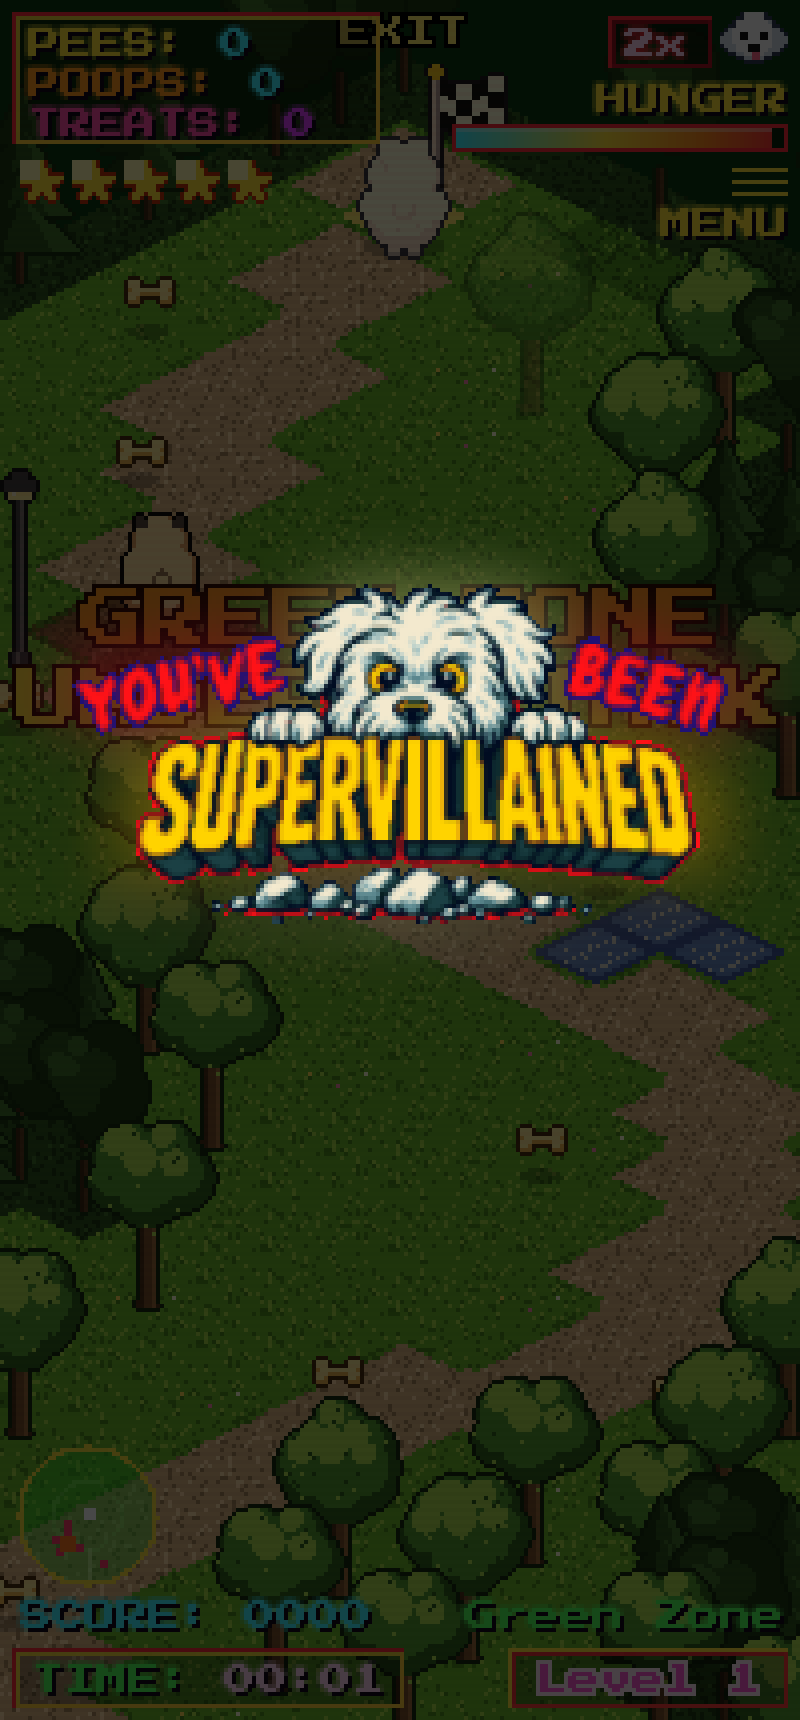
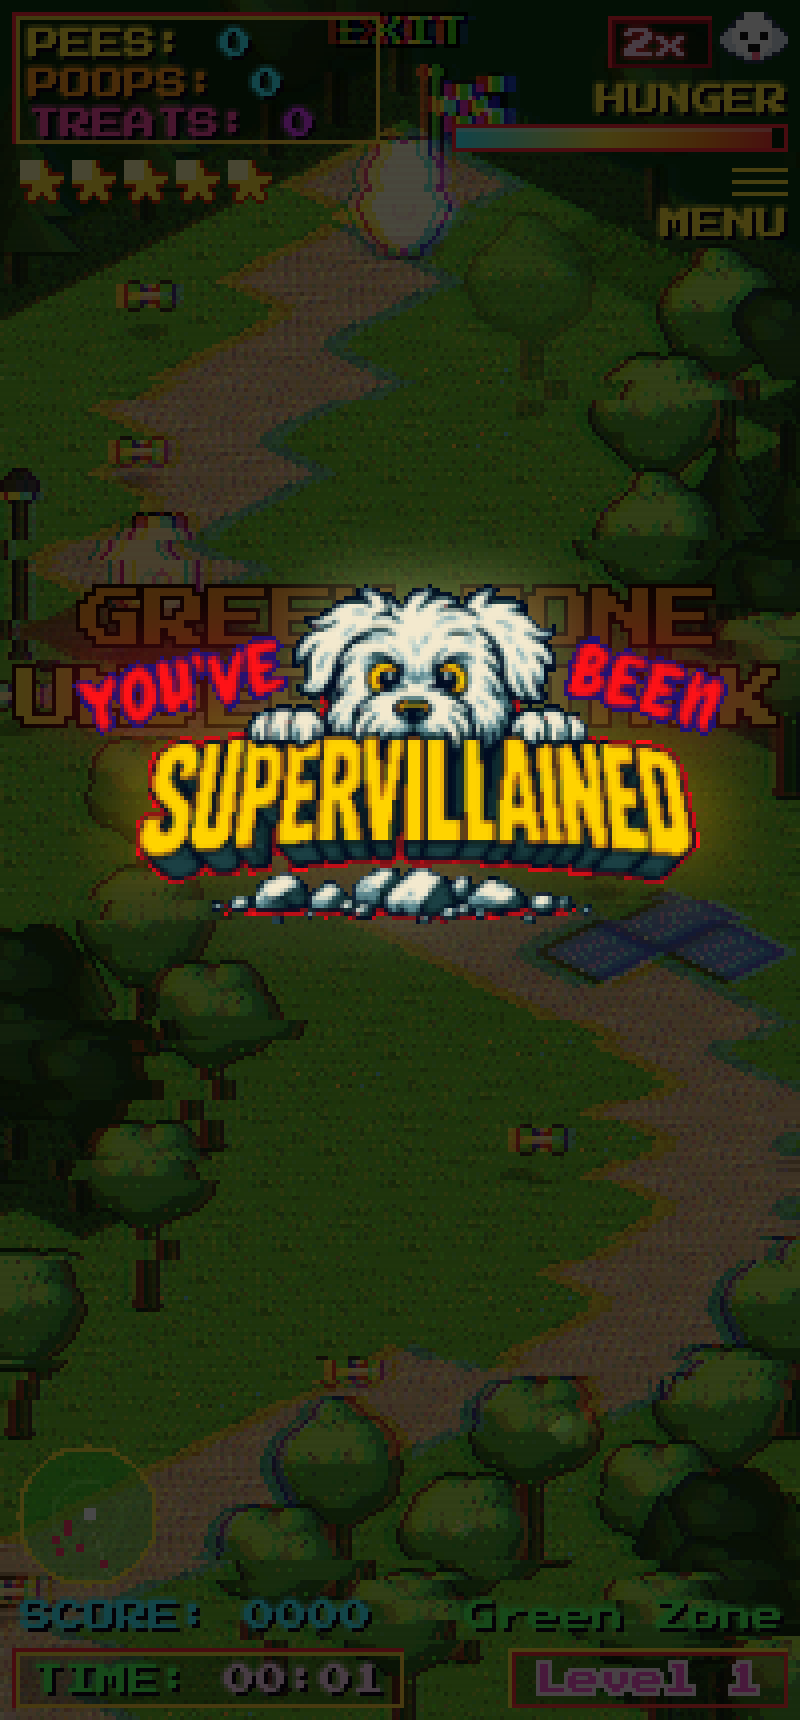
Title page: animated Zampano portrait (GIF), green SUPERVOID EDITIONS
The portrait over the buttons is now Zampano-Samemala-2.gif (from main),
animated: its 44 frames are decoded with WebCodecs' ImageDecoder
(Chromium, Android WebView; no new dependency), cropped to the dog,
scaled to the title's width with crisp edges, packed into one texture
and played with the GIF's own delays. The first frame shows at once
while the rest decode, and alone where ImageDecoder is missing. The
previous still portrait is kept as the old art (OPTIONS > ART: OLD).
SUPERVOID EDITIONS is green.

Claude-Session: https://claude.ai/code/session_01M83brc3uYNtkMe9oqkk4LQ

diff --git a/src/ui/titleAnim.ts b/src/ui/titleAnim.ts
@@ -1,0 +1,179 @@
+import { Rectangle, Texture } from 'pixi.js';
+import gifUrl from '../../assets/starting-page-images/Zampano-Samemala-2.gif?url';
+
+/**
+ * The title page's animated portrait of Zampanò (assets/starting-page-images/
+ * Zampano-Samemala-2.gif, 44 frames). The GIF is large (1024 x 1536 per frame); its frames are
+ * decoded by the browser (WebCodecs `ImageDecoder`, in Chromium and the Android WebView), cropped
+ * to the dog (the union of every frame's opaque area), scaled down to the size the title needs
+ * on this screen and packed into one texture. Until it is ready (a second or two on a slow
+ * phone) and where `ImageDecoder` is missing (Safari, a page served over plain http on the LAN)
+ * the title shows the GIF's first frame (`titleStill`).
+ */
+export interface TitleAnim {
+  frames: Texture[];
+  /** Seconds each frame stays. */
+  durations: number[];
+  /** Total loop length, seconds. */
+  length: number;
+}
+
+export const TITLE_GIF_URL: string = gifUrl;
+
+/** The bits of WebCodecs' ImageDecoder used here (not in every TypeScript DOM library). */
+interface DecodedFrame {
+  image: CanvasImageSource & { displayWidth: number; displayHeight: number; duration: number | null; close(): void };
+}
+interface ImageDecoderLike {
+  readonly completed: Promise<void>;
+  readonly tracks: { readonly ready: Promise<void>; readonly selectedTrack: { frameCount: number } | null };
+  decode(options: { frameIndex: number }): Promise<DecodedFrame>;
+  close(): void;
+}
+type ImageDecoderCtor = new (init: { data: ArrayBuffer; type: string }) => ImageDecoderLike;
+
+/** Frames are first reduced to this width (by halving: smooth and sharp), cropped from there. */
+const WORK_WIDTH = 256;
+/** Alpha at or above this becomes opaque, below it transparent (crisp edges, like the pixel art). */
+const ALPHA_CUT = 110;
+
+const cache = new Map<string, Promise<TitleAnim | null>>();
+
+function cached(key: string, make: () => Promise<TitleAnim | null>): Promise<TitleAnim | null> {
+  let p = cache.get(key);
+  if (!p) {
+    p = make().catch((err) => {
+      console.warn('[title anim]', err);
+      return null;
+    });
+    cache.set(key, p);
+  }
+  return p;
+}
+
+/** The animation with frames `width` logical px wide (cached per width). */
+export function titleAnimation(width: number): Promise<TitleAnim | null> {
+  return cached(`anim@${width}`, async () => {
+    const got = await decodedFrames();
+    return got ? pack(got.work, got.durations, width) : null;
+  });
+}
+
+/**
+ * The GIF's first frame alone, cropped and scaled the same way: quick to make, shown while the
+ * animation decodes (and for good where ImageDecoder is missing).
+ */
+export function titleStill(width: number): Promise<TitleAnim | null> {
+  return cached(`still@${width}`, async () => {
+    const img = new Image();
+    img.src = gifUrl;
+    await img.decode();
+    return pack([reduce(img, img.naturalWidth, img.naturalHeight)], [1], width);
+  });
+}
+
+function canvas(w: number, h: number): HTMLCanvasElement {
+  const c = document.createElement('canvas');
+  c.width = Math.max(1, Math.round(w));
+  c.height = Math.max(1, Math.round(h));
+  return c;
+}
+
+function smooth(c: HTMLCanvasElement): CanvasRenderingContext2D {
+  const g = c.getContext('2d', { willReadFrequently: true })!;
+  g.imageSmoothingEnabled = true;
+  g.imageSmoothingQuality = 'high';
+  return g;
+}
+
+/** A frame reduced to WORK_WIDTH by halving (smooth and sharp). */
+function reduce(src0: CanvasImageSource, w: number, h: number): HTMLCanvasElement {
+  let src = src0;
+  let sw = w;
+  let sh = h;
+  while (sw / 2 >= WORK_WIDTH) {
+    const c = canvas(sw / 2, sh / 2);
+    smooth(c).drawImage(src, 0, 0, c.width, c.height);
+    [src, sw, sh] = [c, c.width, c.height];
+  }
+  const c = canvas(WORK_WIDTH, (sh * WORK_WIDTH) / sw);
+  smooth(c).drawImage(src, 0, 0, c.width, c.height);
+  return c;
+}
+
+/** Every frame, reduced (null where ImageDecoder is missing). */
+async function decodedFrames(): Promise<{ work: HTMLCanvasElement[]; durations: number[] } | null> {
+  const Decoder = (globalThis as { ImageDecoder?: ImageDecoderCtor }).ImageDecoder;
+  if (!Decoder) return null;
+  const data = await (await fetch(gifUrl)).arrayBuffer();
+  const decoder = new Decoder({ data, type: 'image/gif' });
+  try {
+    // The track list first (selectedTrack is null until then), then the whole file.
+    await decoder.tracks.ready;
+    await decoder.completed;
+    const count = decoder.tracks.selectedTrack?.frameCount ?? 0;
+    const work: HTMLCanvasElement[] = [];
+    const durations: number[] = [];
+    for (let i = 0; i < count; i++) {
+      const { image } = await decoder.decode({ frameIndex: i });
+      durations.push(Math.max(0.02, (image.duration ?? 100_000) / 1e6));
+      work.push(reduce(image, image.displayWidth, image.displayHeight));
+      image.close();
+    }
+    return count ? { work, durations } : null;
+  } finally {
+    decoder.close();
+  }
+}
+
+/** Crops the reduced frames to the dog, scales them to `width` and packs them in one texture. */
+function pack(work: HTMLCanvasElement[], durations: number[], width: number): TitleAnim | null {
+  // The union of every frame's opaque area: the crop.
+  let x0 = Infinity;
+  let y0 = Infinity;
+  let x1 = -1;
+  let y1 = -1;
+  for (const c of work) {
+    const a = smooth(c).getImageData(0, 0, c.width, c.height).data;
+    for (let y = 0; y < c.height; y++) {
+      for (let x = 0; x < c.width; x++) {
+        if (a[(y * c.width + x) * 4 + 3]! < ALPHA_CUT) continue;
+        if (x < x0) x0 = x;
+        if (x > x1) x1 = x;
+        if (y < y0) y0 = y;
+        if (y > y1) y1 = y;
+      }
+    }
+  }
+  if (x1 < 0) return null;
+
+  // Crop to the dog, scale to `width`, pack the frames into one atlas.
+  const count = work.length;
+  const cw = x1 - x0 + 1;
+  const ch = y1 - y0 + 1;
+  const fw = width;
+  const fh = Math.max(1, Math.round((ch * width) / cw));
+  const cols = Math.max(1, Math.min(count, Math.floor(2048 / (fw + 1))));
+  const rows = Math.ceil(count / cols);
+  const atlas = canvas(cols * (fw + 1), rows * (fh + 1));
+  const g = smooth(atlas);
+  work.forEach((c, i) => g.drawImage(c, x0, y0, cw, ch, (i % cols) * (fw + 1), Math.floor(i / cols) * (fh + 1), fw, fh));
+  const img = g.getImageData(0, 0, atlas.width, atlas.height);
+  for (let k = 3; k < img.data.length; k += 4) img.data[k] = img.data[k]! >= ALPHA_CUT ? 255 : 0;
+  g.putImageData(img, 0, 0);
+  const base = Texture.from(atlas);
+  const frames = work.map(
+    (_, i) => new Texture({ source: base.source, frame: new Rectangle((i % cols) * (fw + 1), Math.floor(i / cols) * (fh + 1), fw, fh) }),
+  );
+  return { frames, durations, length: durations.reduce((s, d) => s + d, 0) };
+}
+
+/** The frame showing `t` seconds into the loop. */
+export function frameAt(anim: TitleAnim, t: number): Texture {
+  let r = anim.length > 0 ? t % anim.length : 0;
+  for (let i = 0; i < anim.frames.length; i++) {
+    r -= anim.durations[i]!;
+    if (r < 0) return anim.frames[i]!;
+  }
+  return anim.frames[anim.frames.length - 1]!;
+}

diff --git a/src/scenes/overlays.ts b/src/scenes/overlays.ts
@@ -1,7 +1,10 @@
-import { Container, Graphics, Sprite } from 'pixi.js';
+import { Container, Graphics, Sprite, Texture } from 'pixi.js';
 import { TITLE } from '../config';
 import type { TitleGlitchFilter } from '../fx/titleGlitchFilter';
 import { loadTitleArt, titleTexture, type TitleArt } from '../ui/titleArt';
+import { frameAt, titleAnimation, titleStill, type TitleAnim } from '../ui/titleAnim';
+import { artVersion } from '../assets/build';
+import type { ArtVersion } from '../assets/manifest';
 import { textures } from '../core/assets';
 import type { Game } from '../core/game';
 import type { Scene } from '../core/scene';
@@ -66,8 +69,14 @@ export interface TitleActions {
  * (The "You've been supervillained" logo is kept for the end of each level: SupervillainedScene.)
  */
 export class TitleScene extends Overlay {
-  /** Zampanò's portrait (title art) over the buttons. */
+  /** Zampanò's portrait over the buttons: the animated GIF (new art) or the old still. */
   private readonly dog = new Sprite();
+  private anim: TitleAnim | null = null;
+  /** Width the animation was asked for (frames are made for one width). */
+  private animWidth = 0;
+  private animTime = 0;
+  /** The art version the portrait shows (OPTIONS > ART can change it under the title). */
+  private artShown: ArtVersion | null = null;
   private art: TitleArt | null = null;
   private burstLeft = 0;
   private nextBurst = 1;
@@ -80,7 +89,7 @@ export class TitleScene extends Overlay {
   private readonly best: PixelText;
   private readonly menu: Menu;
   /** Publisher line: the smallest crisp size of the pixel font (scale 1), dimmed. */
-  private readonly footer = new PixelText('SUPERVOID EDITIONS', { color: '#8ad4ff', letterSpacing: 1 }).setOrigin(0.5, 1);
+  private readonly footer = new PixelText('SUPERVOID EDITIONS', { color: C.green, shadow: '#000000', letterSpacing: 1 }).setOrigin(0.5, 1);
 
   constructor(
     game: Game,
@@ -112,7 +121,7 @@ export class TitleScene extends Overlay {
     this.root.addChild(this.title, this.edition, this.dog, this.best, this.menu.root, this.footer);
     void loadTitleArt().then((art) => {
       this.art = art;
-      this.layout();
+      if (!this.root.destroyed) this.layout();
     });
   }
 
@@ -132,12 +141,8 @@ export class TitleScene extends Overlay {
     let y = halfTitle + Math.round(this.title.height / 2) + 10;
     const editionY = y;
     y += 12;
-    let dogY = y;
-    if (this.art) {
-      this.dog.texture = titleTexture(this.art.dog, Math.round(w * TITLE.DOG_WIDTH));
-      dogY = y;
-      y += this.dog.height + 6;
-    }
+    const dogY = y;
+    y += this.layoutDog(Math.round(w * TITLE.DOG_WIDTH)) + 6;
     const menuY = y;
     y += this.menu.height + 5;
     const bestY = y;
@@ -154,8 +159,43 @@ export class TitleScene extends Overlay {
     this.footer.position.set(cx, h - 6);
   }
 
+  /** Sets the portrait for this width; returns the height it takes. */
+  private layoutDog(width: number): number {
+    this.artShown = artVersion();
+    if (this.artShown === 'old') {
+      // The old art: the still portrait.
+      if (!this.art) return 0;
+      this.dog.texture = titleTexture(this.art.dog, width);
+      return this.dog.height;
+    }
+    if (this.animWidth !== width) {
+      this.animWidth = width;
+      this.anim = null;
+      // The first frame at once, the animation when it has decoded.
+      const show = (a: TitleAnim | null, still: boolean) => {
+        // The title may be gone by now (NEW GAME tapped while it decoded).
+        if (!a || this.animWidth !== width || this.root.destroyed) return;
+        if (still && this.anim) return;
+        this.anim = a;
+        this.layout();
+      };
+      void titleStill(width).then((a) => show(a, true));
+      void titleAnimation(width).then((a) => show(a, false));
+    }
+    if (!this.anim) {
+      // Not ready yet: keep its place.
+      this.dog.texture = Texture.EMPTY;
+      return Math.round(width * TITLE.DOG_ASPECT);
+    }
+    this.dog.texture = frameAt(this.anim, this.animTime);
+    return this.anim.frames[0]!.height;
+  }
+
   override update(dt: number): void {
     super.update(dt);
+    if (artVersion() !== this.artShown) this.layout();
+    this.animTime += dt;
+    if (this.anim && this.artShown === 'new') this.dog.texture = frameAt(this.anim, this.animTime);
     // Glitchy entrance: jitter for the first moments.
     const jitter = this.time < 0.9 ? Math.round((Math.random() * 2 - 1) * 4 * (1 - this.time / 0.9)) : 0;
     this.title.x = Math.round(this.w / 2) + jitter;

diff --git a/src/main.ts b/src/main.ts
@@ -8,6 +8,8 @@ import { SpriteViewerScene } from './scenes/spriteViewerScene';
 import type { CharacterKey } from './assets/manifest';
 import { loadPixelFont } from './ui/pixelFont';
 import { loadTitleArt } from './ui/titleArt';
+import { titleAnimation, titleStill } from './ui/titleAnim';
+import { TITLE } from './config';
 import { dirFromGridVector } from './iso/projection';
 import { CHAPTERS } from './campaign/chapters';
 import { DEFAULT_POLICY } from './story/autopilot';
@@ -40,6 +42,9 @@ async function boot(): Promise<void> {
   await buildGlobalTextures();
   await loadTitleArt();
   const game = new Game(app, canvas);
+  // Start decoding the title's animated portrait now (it plays as soon as it is ready).
+  void titleStill(Math.round(game.width * TITLE.DOG_WIDTH));
+  void titleAnimation(Math.round(game.width * TITLE.DOG_WIDTH));
   document.getElementById('boot')?.remove();
 
   const params = new URLSearchParams(location.search);

diff --git a/tests/titleAnim.test.ts b/tests/titleAnim.test.ts
@@ -1,0 +1,22 @@
+import { Texture } from 'pixi.js';
+import { describe, expect, it, vi } from 'vitest';
+
+vi.mock('../assets/starting-page-images/Zampano-Samemala-2.gif?url', () => ({ default: 'zampano.gif' }));
+const { frameAt } = await import('../src/ui/titleAnim');
+
+describe('title animation timing', () => {
+  const frames = [new Texture(), new Texture(), new Texture()];
+  const anim = { frames, durations: [0.08, 0.04, 0.05], length: 0.17 };
+
+  it('shows each frame for its own duration (GIF delays)', () => {
+    expect(frameAt(anim, 0)).toBe(frames[0]);
+    expect(frameAt(anim, 0.079)).toBe(frames[0]);
+    expect(frameAt(anim, 0.081)).toBe(frames[1]);
+    expect(frameAt(anim, 0.13)).toBe(frames[2]);
+  });
+
+  it('loops', () => {
+    expect(frameAt(anim, 0.17 + 0.01)).toBe(frames[0]);
+    expect(frameAt(anim, 0.17 * 10 + 0.1)).toBe(frames[1]);
+  });
+});

diff --git a/src/config.ts b/src/config.ts
@@ -82,6 +82,8 @@ export const ENERGY = {
 export const TITLE = {
   /** Zampanò's portrait over the buttons, as a fraction of the screen width. */
   DOG_WIDTH: 0.46,
+  /** The animated portrait's height / width (space kept for it while the GIF decodes). */
+  DOG_ASPECT: 1.4,
   /** Share of the free space below the stack moved above it (lowers everything toward the footer). */
   LOWER: 0.75,
   /** Background glitch (mostly vertical): flickering burst strength [min, max], faint level in between. */

diff --git a/ASSETS.md b/ASSETS.md
@@ -186,12 +186,22 @@ transitions, stars, jingles, game over) stay synthesized in `src/fx/sounds.ts`.
 
 ## Title page art
 
-`assets/starting-page-images/` holds two pictures (`src/ui/titleArt.ts`):
-`Retro-16-Bit Ivory Dog Sprite-3-4-front.png` (Zampanò over the title's buttons) and
-`Youve_Been_Supervillained_Logo.png`, which is not on the title page: it snaps in at the end of
-every level, before the final info (`src/scenes/supervillainedScene.ts`). They are scaled down in
-the browser to the exact size each screen needs, so replacing a file (same name, PNG with
-transparency) is all it takes. Tuning in `config.ts`: `TITLE` (portrait, glitch, old-film look) and
+`assets/starting-page-images/` holds the pictures of the title page and the level ends:
+
+- `Zampano-Samemala-2.gif`: Zampanò over the title's buttons, **animated** (44 frames,
+  1024 × 1536, transparent; `src/ui/titleAnim.ts`). The browser decodes its frames (WebCodecs
+  `ImageDecoder`: Chromium and the Android WebView), crops them to the dog (the union of every
+  frame's opaque area), scales them to the title's size and plays them with the GIF's own delays.
+  Without `ImageDecoder` (Safari, the dev server opened over plain http on the LAN) the title
+  shows the first frame. `Zampano-Samemala-1.gif` (the other version) is kept, unused.
+- `Retro-16-Bit Ivory Dog Sprite-3-4-front.png`: the previous portrait, kept as the old version:
+  OPTIONS > ART: OLD shows it (still).
+- `Youve_Been_Supervillained_Logo.png`: not on the title page; it snaps in at the end of every
+  level, before the final info (`src/scenes/supervillainedScene.ts`).
+
+They are scaled down in the browser to the exact size each screen needs, so replacing a file
+(same name, transparent background) is all it takes; another GIF needs only its name changed in
+`titleAnim.ts`. Tuning in `config.ts`: `TITLE` (portrait, glitch, old-film look) and
 `SUPERVILLAINED` (size, snap, flash, shake, glow, sprite burst, hold time).
 
 ## App icon and logo

diff --git a/DECISIONS.md b/DECISIONS.md
@@ -448,3 +448,16 @@ The logo left the title page. It now marks the end of each level, before the lev
   (a tap skips it after 0.45 s), then the final info. All numbers in `config.ts` (`SUPERVILLAINED`).
 - The title page keeps its portrait, buttons and glitch; with the logo gone the stack sits a bit
   lower.
+
+## Title page: the animated portrait
+
+The portrait over the title's buttons is now `Zampano-Samemala-2.gif` (44 frames, about 2 s,
+1024 × 1536), animated. A browser draws only one frame of a GIF into a canvas, so the frames are
+decoded with WebCodecs' `ImageDecoder` (built into Chromium and the Android WebView; no new
+dependency), halved down to 256 px, cropped to the dog (the union of the frames' opaque areas, so
+it fills the same width as the old portrait), scaled to the title's width with crisp edges and
+packed into one texture; each frame keeps its GIF delay. Decoding starts at boot and takes a few
+hundred ms; until then the title keeps the portrait's place (`TITLE.DOG_ASPECT`) so nothing moves
+when it appears. Where `ImageDecoder` is missing the first frame is shown still. The old portrait
+is kept as the old art (OPTIONS > ART: OLD), like the replaced sprites. SUPERVOID EDITIONS is
+green.

diff --git a/CLAUDE.md b/CLAUDE.md
@@ -58,7 +58,8 @@ sub-level), `?auto=1` (the autopilot plays the story; `&skill=0.7&ending=knight|
 - `entities/` — `Entity` base (grid position, interpolation, view), `CharacterAnimator`,
   `Zampano`, `PropEntity`, …
 - `systems/` — gameplay rules as small, mostly pure classes (unit-tested).
-- `ui/` — `pixelFont.ts` + `pixelText.ts` (crisp bitmap text with glow/outline), HUD, touch controls.
+- `ui/` — `pixelFont.ts` + `pixelText.ts` (crisp bitmap text with glow/outline), HUD, touch controls,
+  `titleArt.ts` / `titleAnim.ts` (title portrait: the animated GIF decoded with `ImageDecoder`).
 - `fx/` — particles, popups, screen effects, glitch filter.
 - `scenes/` — `flow.ts` (title → new game / continue / options / quit; plays the 1.0 walk for the
   story), Title, Options, Confirm, Goodbye, Briefing, Game (the walk), Pause, LevelEnd, GameOver,
